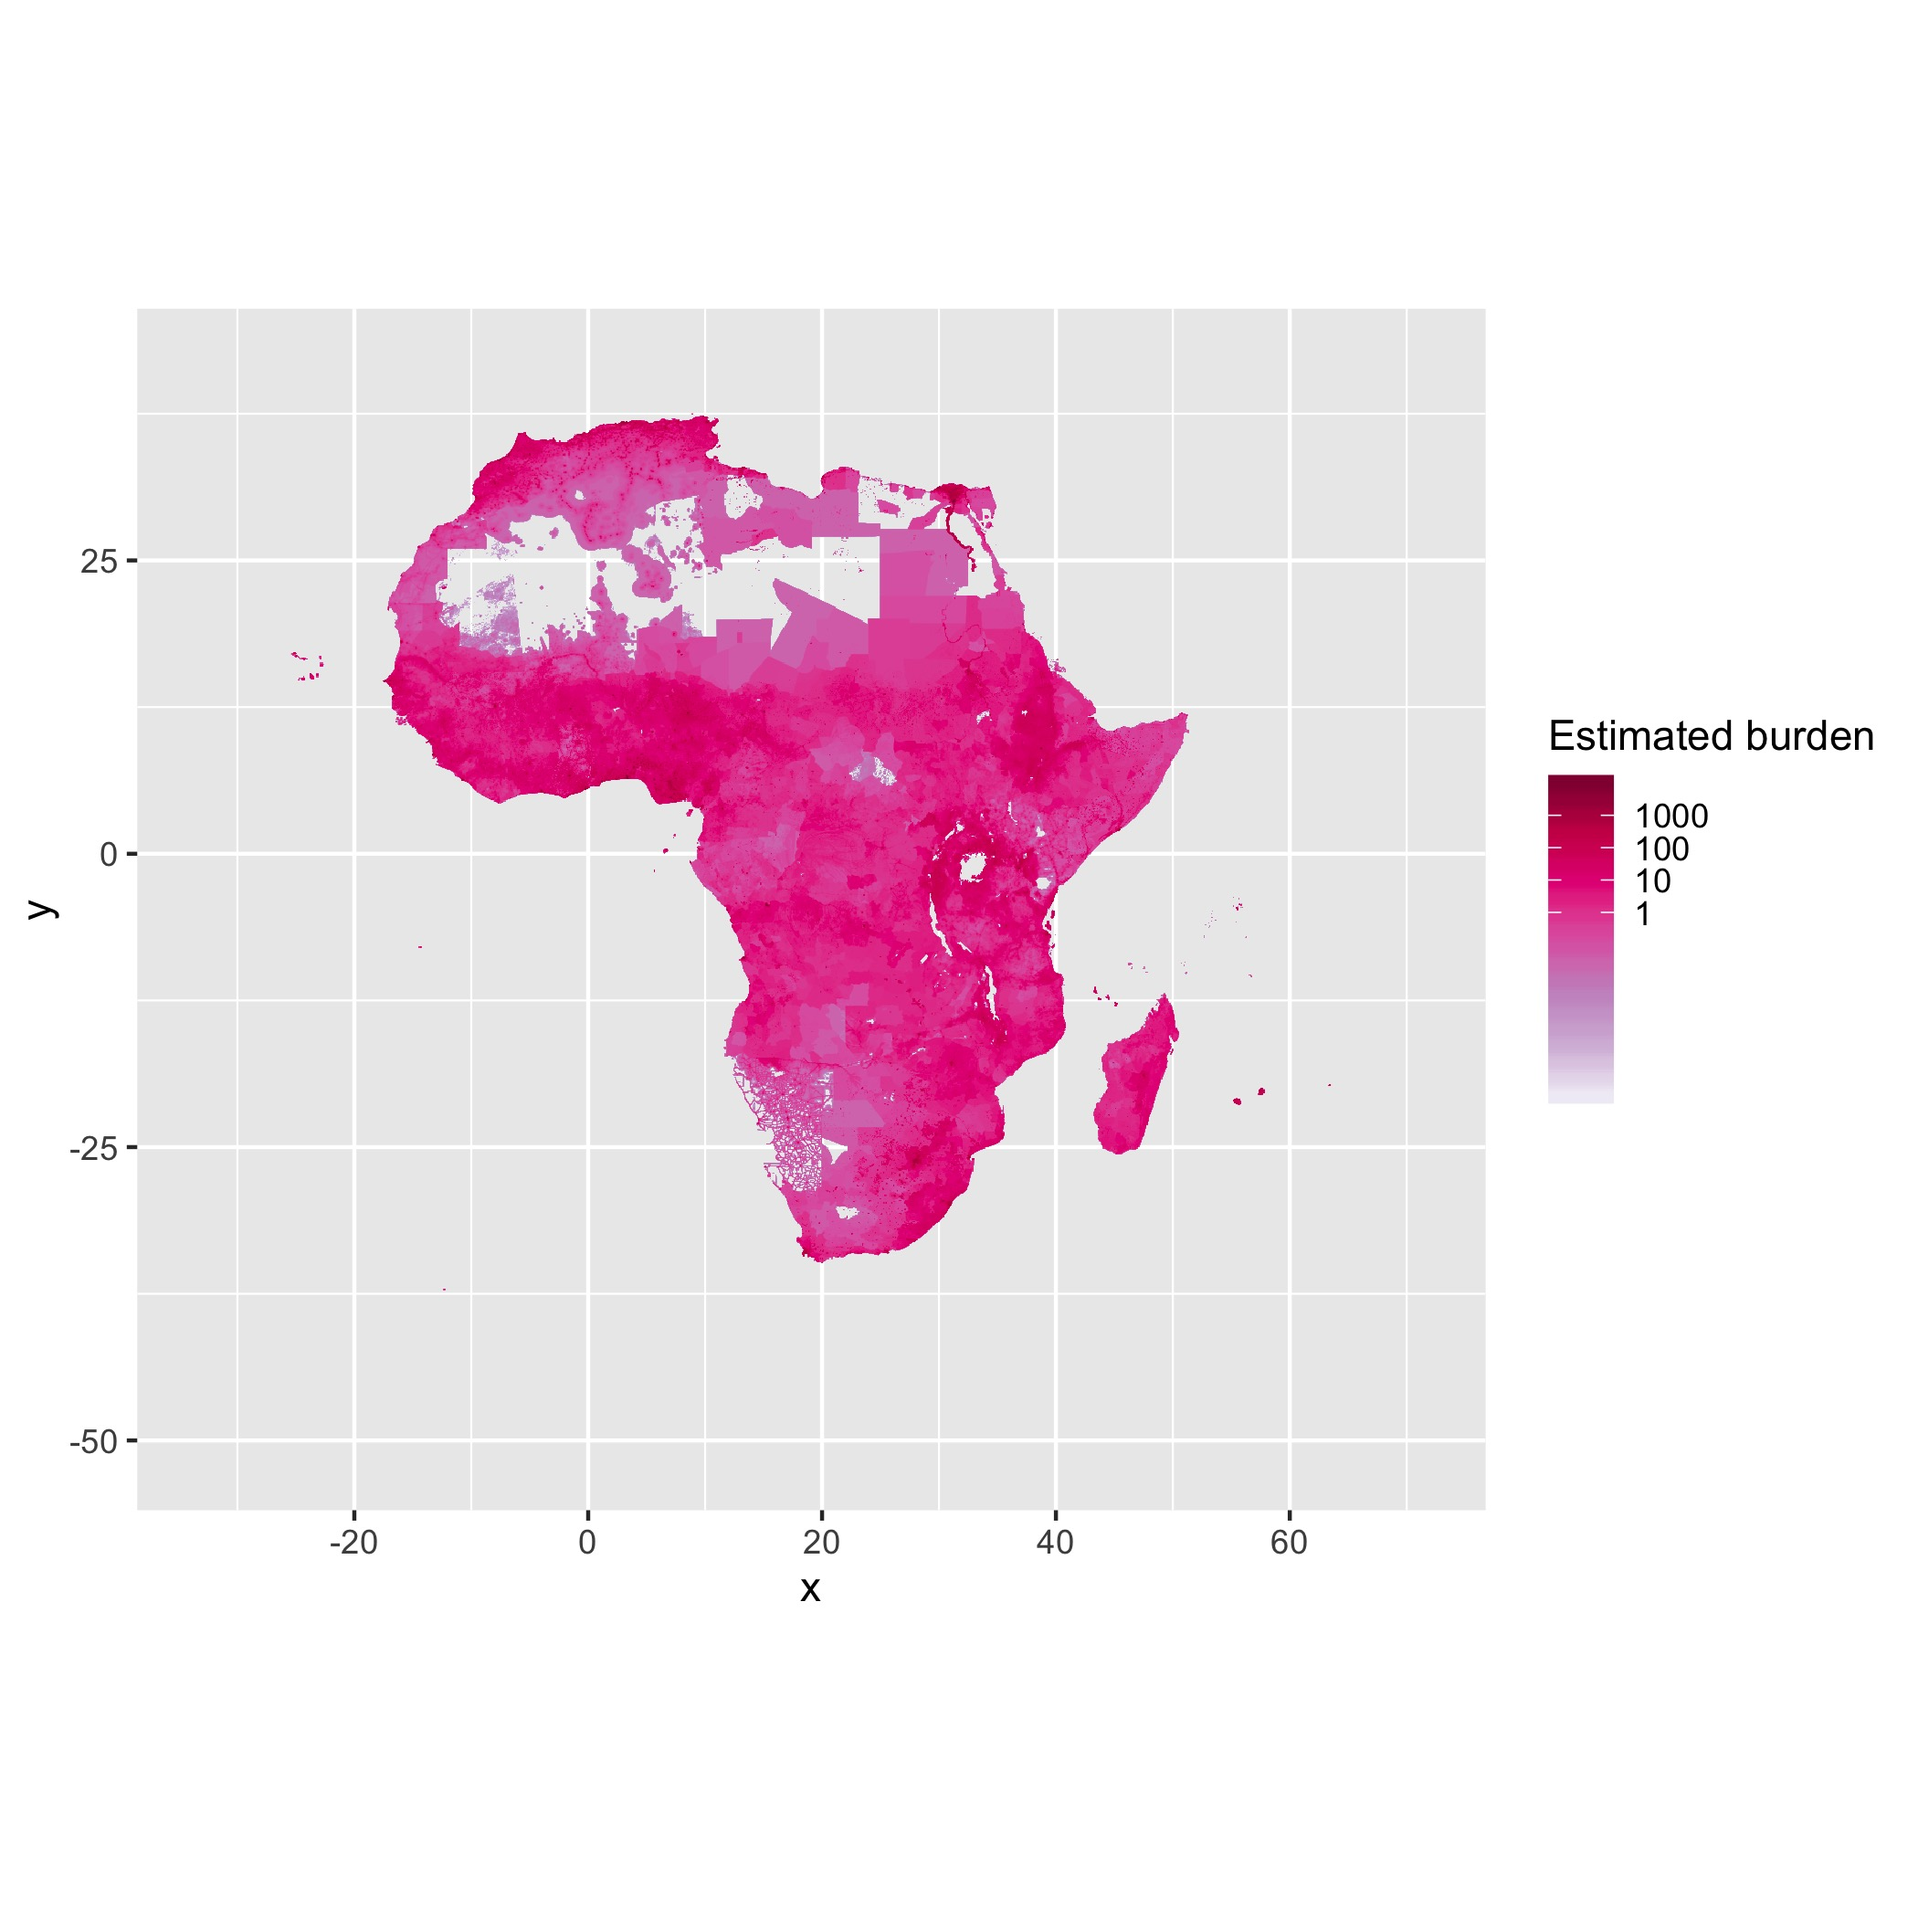
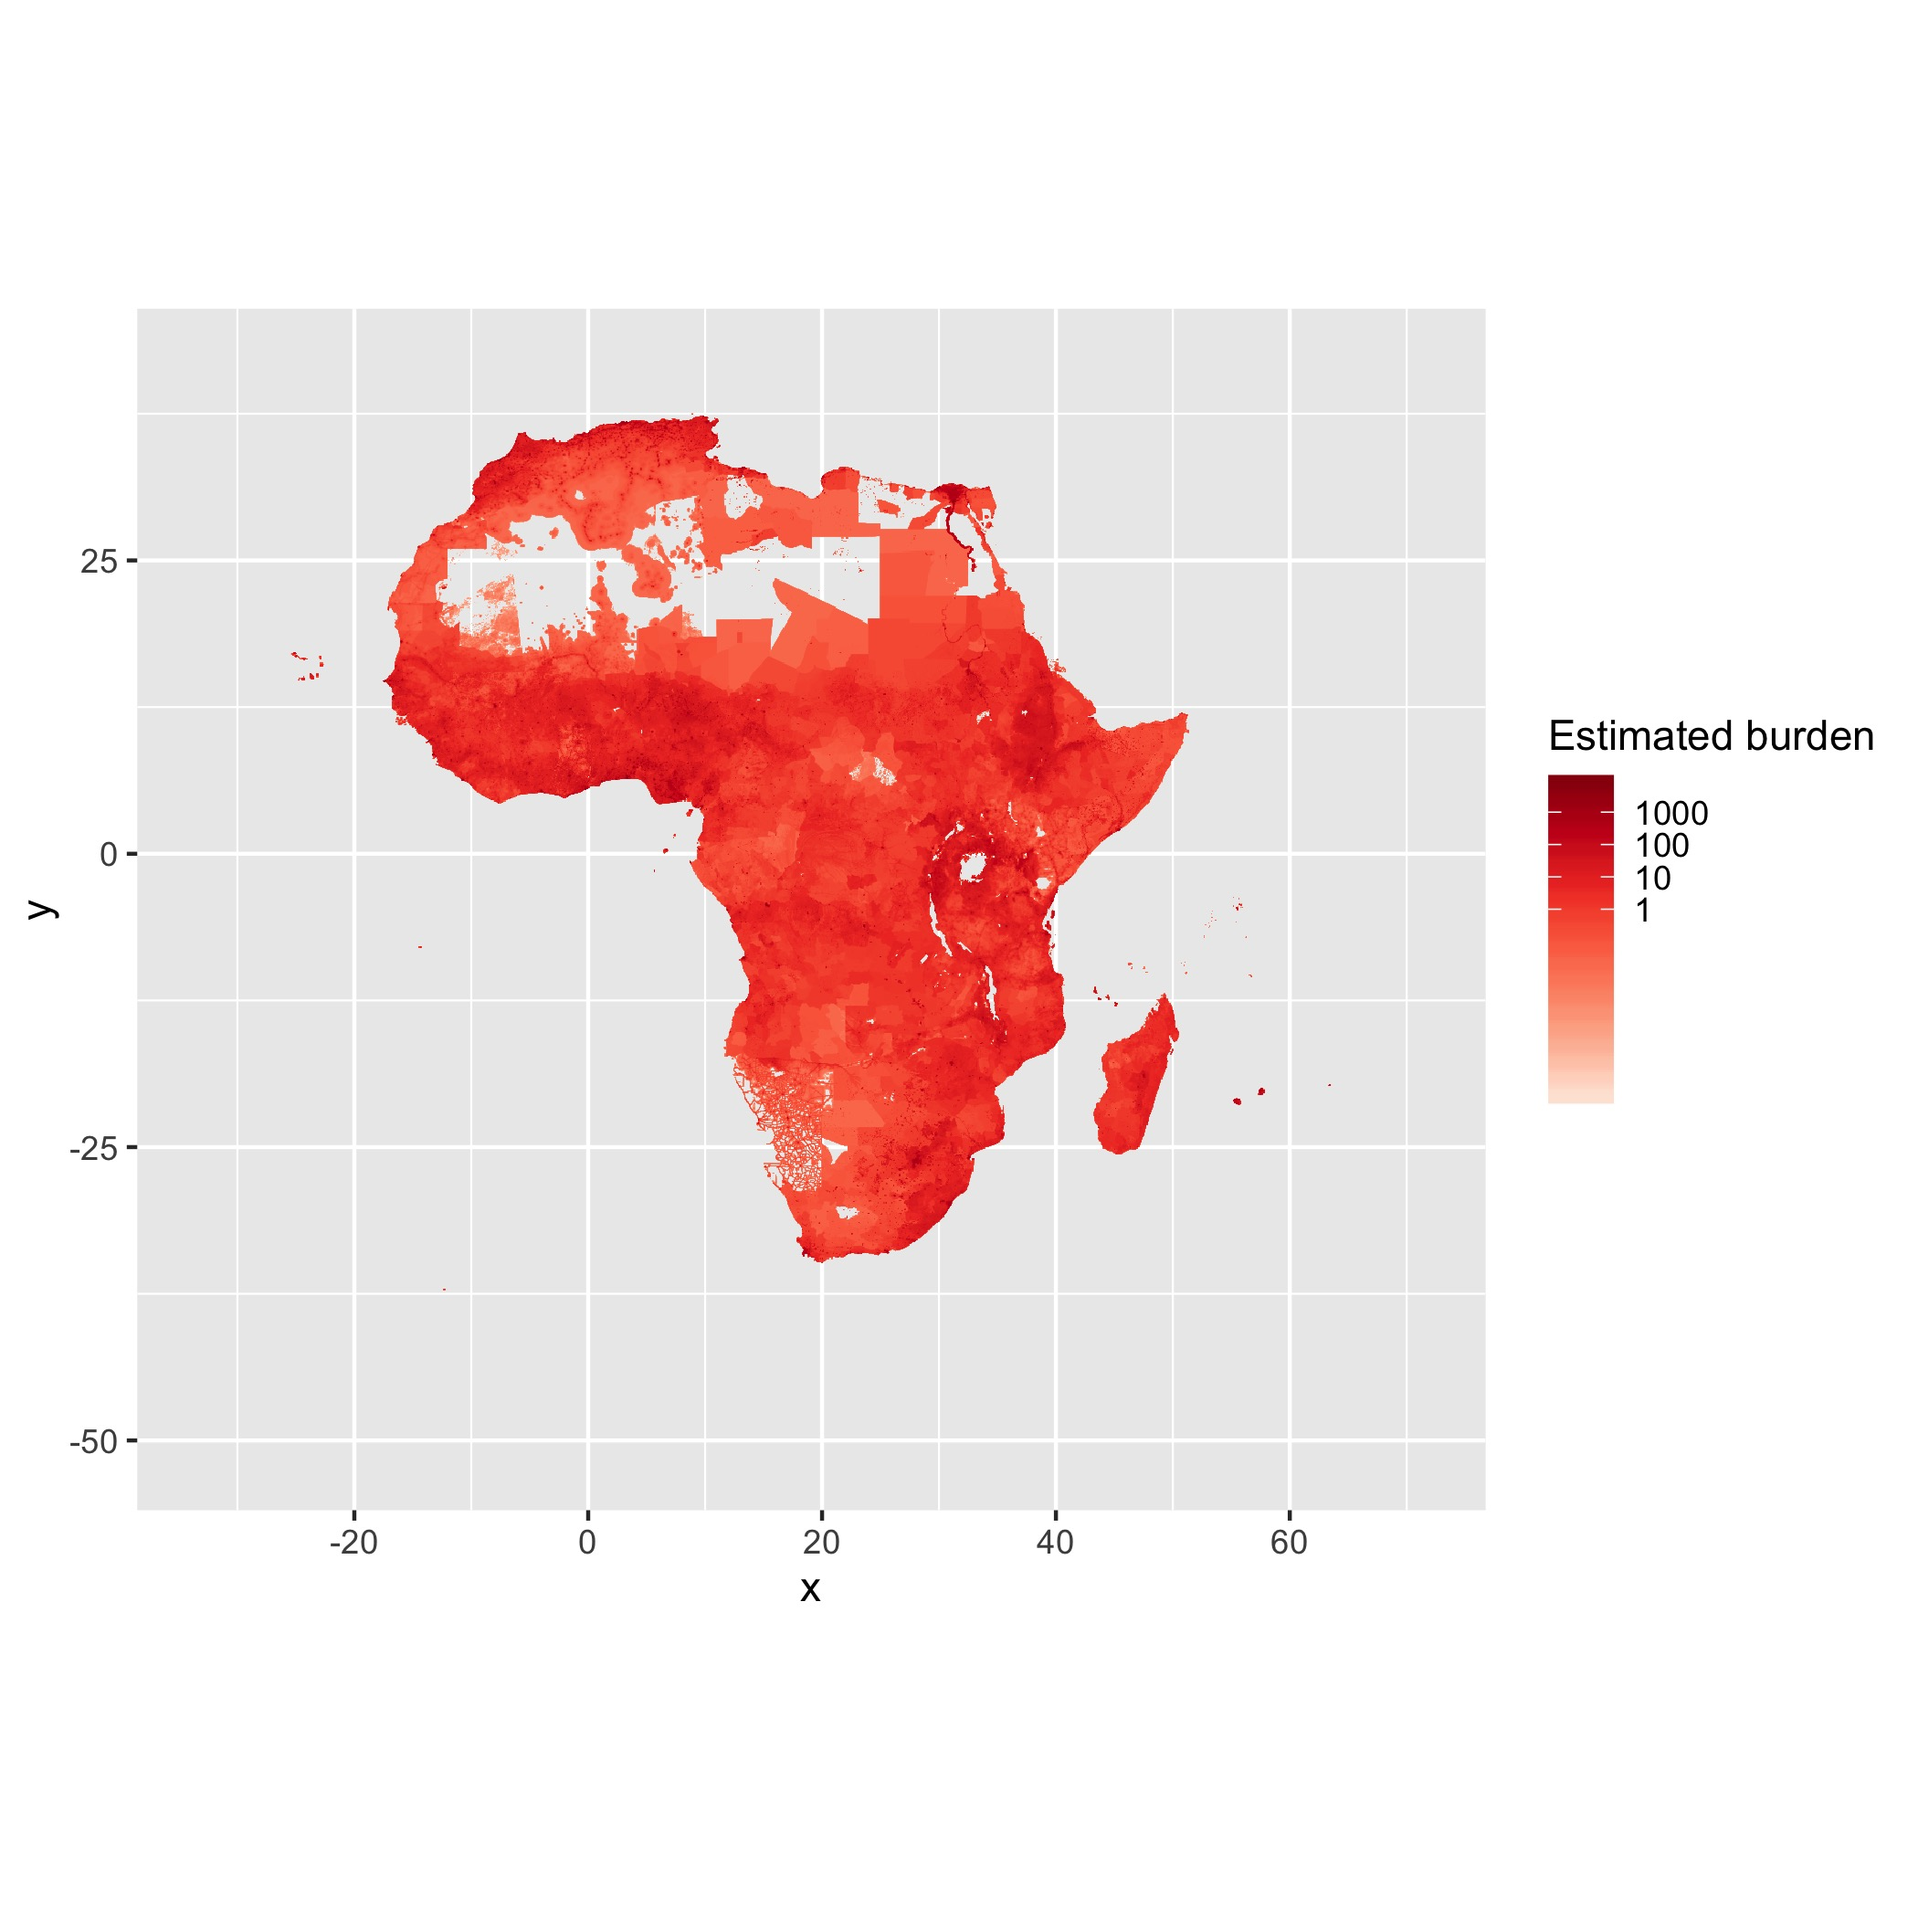
changed color & prop asymptomatic

Changed region(s): [[0.1857, 0.2167, 0.619, 0.681], [0.8048, 0.4024, 0.8976, 0.5881]]

diff --git a/README.md b/README.md
@@ -21,16 +21,17 @@ Spatial estimates of burden by age cfrs for Africa
       - Then edit the script [R/mada\_1x1.R](R/mada_1x1.R) with the new
         directories & iso code
       - A table of country iso codes is included
-        [here](%22output/iso_codes.csv%22)
+        [here](output/iso_codes.csv)
   - Shapefiles from malariaAtlas using the [R
     package](https://cran.r-project.org/web/packages/malariaAtlas/index.html)
-      - I used rmapshaper (except for admin3 which had issues because of
-        polygon holes)
+      - I used rmapshaper to simplify polygons for easier plotting
+        (except for admin3 which was too big\!)
+      - The continental shapefiles are a bit patchy and you end up with
+        some invalid geoms
 
-## Spatial files and other large files are stored on dropbox
-
-  - [Download
-    here](https://www.dropbox.com/sh/wwxc9wb2xpv5qog/AACSsRjpq4Skesoy0Ijzt2I9a?dl=0)
+**Spatial files and other large files are stored on dropbox\!** -
+[Download
+here](https://www.dropbox.com/sh/wwxc9wb2xpv5qog/AACSsRjpq4Skesoy0Ijzt2I9a?dl=0)
 
 ## Analysis
 
@@ -45,9 +46,10 @@ For both Madagascar @ \~ 1x1 km scale and AFR at \~ 10 km scale:
 ## Key outputs
 
 These data (zipped csv files) with cell\_id corresponding to raster &
-admin codes corresponding to shapefiles - Africa gridded @ 10x10 km:
-[output/afr\_dt.gz](output/afr_dt.gz) - Mada gridded @ 1x1km:
-output/mada\_dt.gz (stored on dropbox)
+admin codes corresponding to shapefiles:
+
+  - Africa gridded @ 10x10 km: [output/afr\_dt.gz](output/afr_dt.gz)
+  - Mada gridded @ 1x1km: output/mada\_dt.gz (stored on dropbox)
 
 The aggregated versions are also included in the output folder (may be
 easier to work with). You can match these to the shapefiles and apply
@@ -62,7 +64,8 @@ in and manipulate otherwise.
 
   - Estimate cfrs per Jess (smooth spline)
 
-  - Assumed infection prop of 0.4 cummulatively
+  - Assumed infection prop of 0.4 cummulatively & asymptomatic
+    proportion is 0.2
 
   - Continent (at grid cell level)
 
